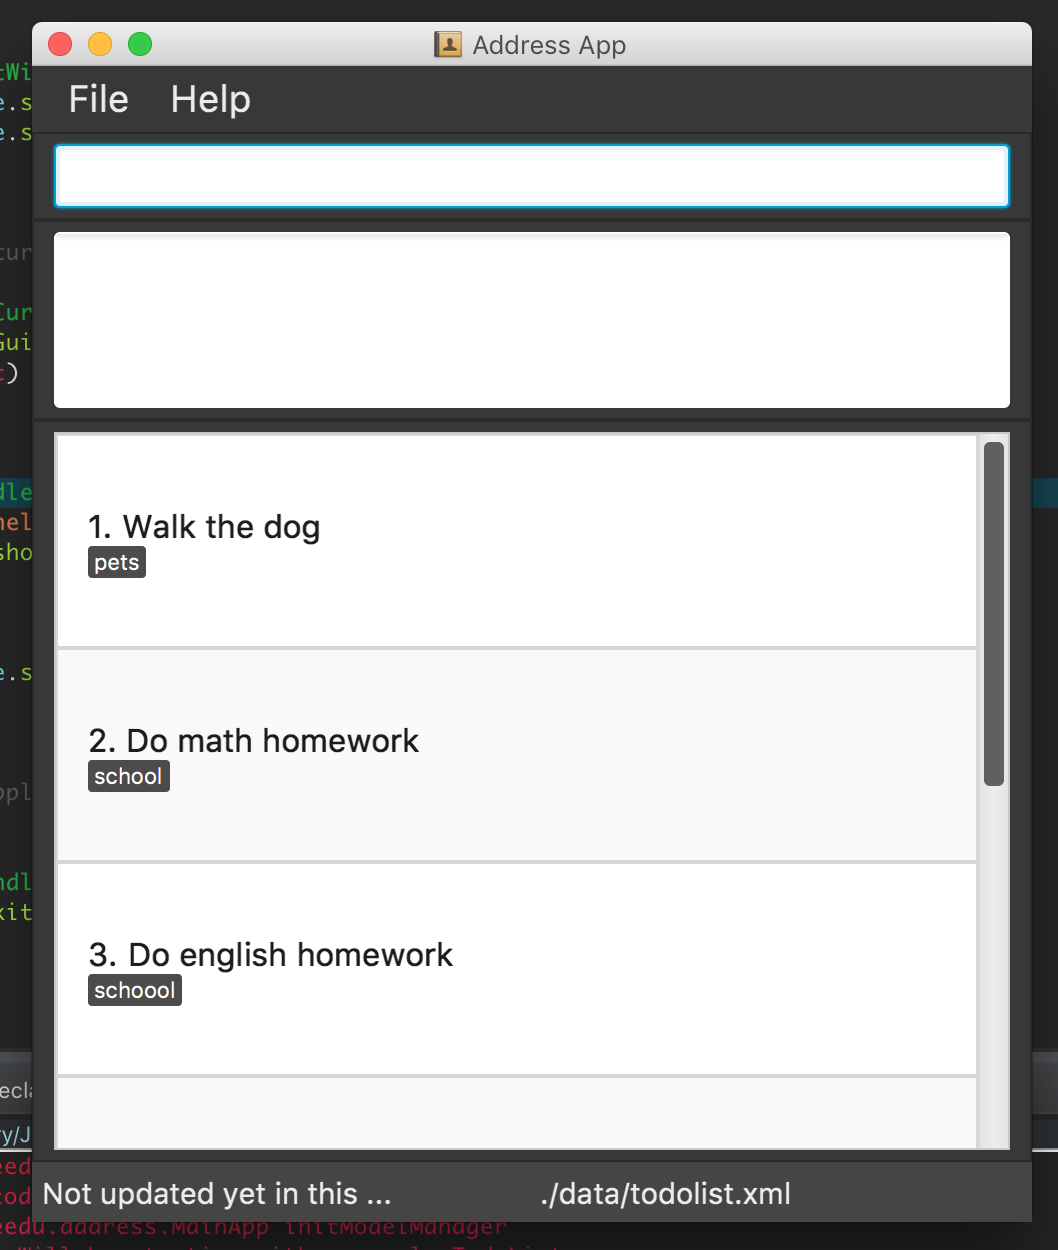
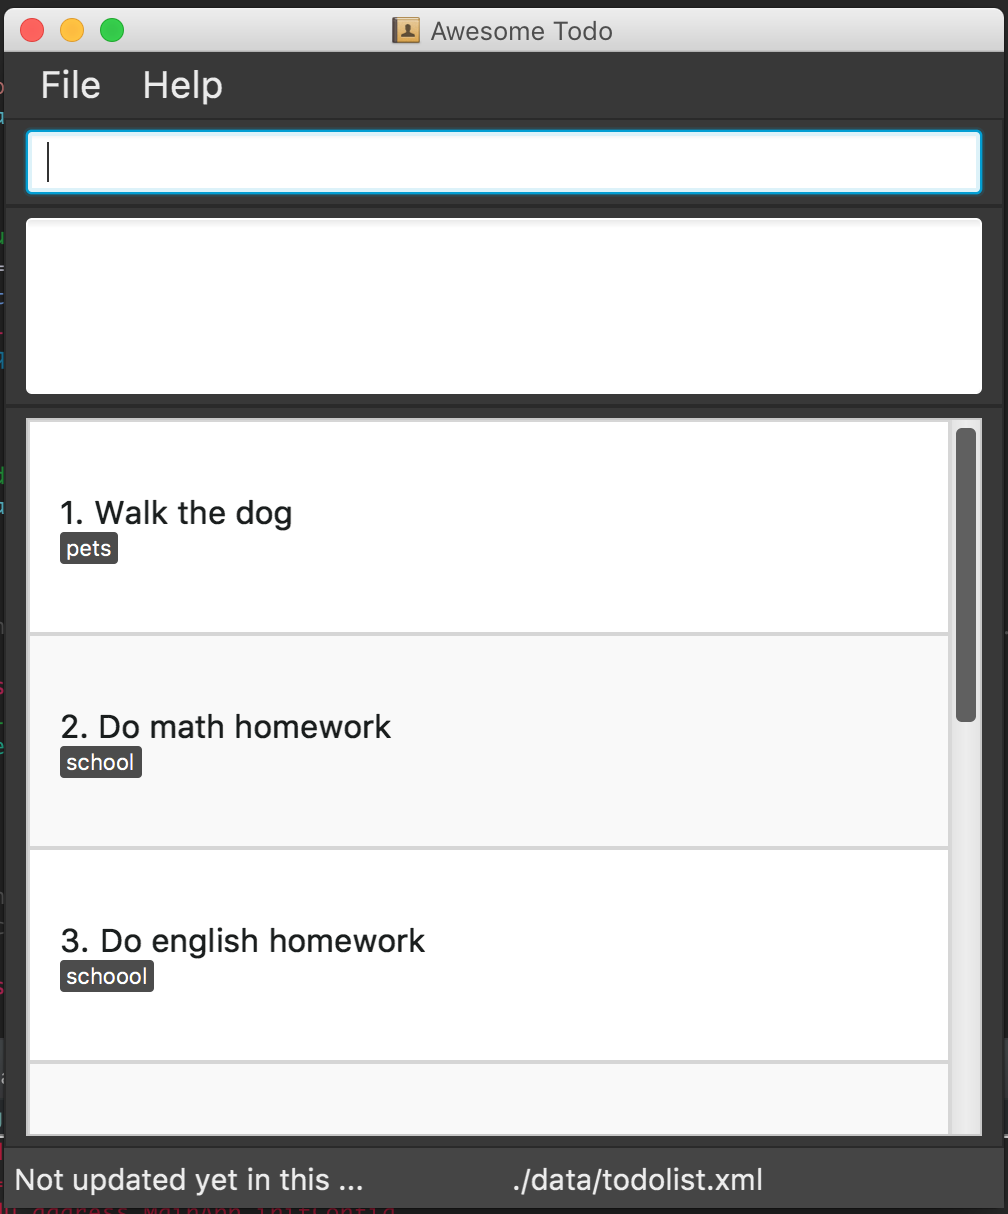
Add back in documentation changes since unit-tests branch was created

Changed region(s): [[0.0, 0.0, 1.0, 1.0]]

diff --git a/docs/UserGuide.md b/docs/UserGuide.md
@@ -47,13 +47,13 @@ Format: `help`
 ### 2.2. Adding a todo: `add`
 
 Adds a floating task<br>
-Format: `add TODO [t/TAG]`
+Format: `add TASK [t/TAG]`
 
 Adds an event<br>
-Format: `add TODO s/STARTTIME e/ENDTIME [t/tag]`
+Format: `add EVENT s/STARTTIME e/ENDTIME [t/tag]`
 
 Adds a deadline<br>
-Format: `add TODO d/DEADLINE [t/tag]`
+Format: `add DEADLINE d/DEADLINE [t/tag]`
 
 Examples:
 
@@ -165,10 +165,10 @@ Format: `exit`
 Todo data are saved in the hard disk automatically after any command that changes the data.<br>
 There is no need to save manually.
 
-### 2.12 Setting the data save location : `save`
+### 2.12 Setting the data save location : `savefile`
 
-Sets the save location file containing todo data.<br>
-Format: `save PATH_TO_FILE`
+Sets the save file location containing todo data.<br>
+Format: `savefile PATH_TO_FILE`
 
 > Changes the file save location to specified `PATH_TO_FILE`. <br>
 
@@ -186,30 +186,42 @@ Examples:
 
 ## 4. Command Summary
 
-* **Add Task**  `add task TODO` <br>
-  e.g. `add taskFinish math homework`
+* **Add Task** : `add TASK` <br>
+  e.g. `add Finish math homework`
 
-* **Add Event**  `add event TODO s/STARTTIME e/ENDTIME`
-  e.g. `add event Take the dog for a walk s/11-11-2017/17:00 e/11-11-17/17:30`
+* **Add Event** : `add TODO s/STARTTIME e/ENDTIME` <br>
+  e.g. `add Take the dog for a walk s/11-11-2017/17:00 e/11-11-17/17:30`
 
-* **Add Deadline**  `add deadline TODO d/DEADLINE`
-  e.g. `add deadline Finish programming project d/11-11-2017/17:00`
+* **Add Deadline** : `add TODO d/DEADLINE` <br>
+  e.g. `add Finish programming project d/11-11-2017/17:00`
 
-* **Clear** : `clear`
+* **Edit** : `edit INDEX [TASK]` <br>
+  e.g. `edit 1 Take cat for a walk`
+
+* **Clear** : `clear` <br>
+  e.g. `clear`
 
 * **Delete** : `delete INDEX` <br>
-   e.g. `delete 3`
+  e.g. `delete 3`
 
 * **Find** : `find KEYWORD [MORE_KEYWORDS]` <br>
   e.g. `find Dog`
 
+* **Complete** : `complete INDEX` <br>
+  e.g. `complete INDEX`
+
+* **Undo** : `undo` <br>
+  e.g. `undo`
+
 * **List** : `list` <br>
-  e.g.
+  e.g. `list`
+
+* **Set Save File Location** : `savefile FILE_PATH` <br>
+  e.g. `savefile ~/User/Documents/todolist.xml`
 
 * **Help** : `help` <br>
-  e.g.
+  e.g. `help`
 
-* **Select** : `select INDEX` <br>
-  e.g.`select 2`
-
+* **Exit** : `exit` <br>
+  e.g. `exit`
 

diff --git a/README.md b/README.md
@@ -1,13 +1,13 @@
-# Address Book (Level 4)
+# Awesome Todo (Level 4)
 
-[![Build Status](https://travis-ci.org/se-edu/addressbook-level4.svg?branch=master)](https://travis-ci.org/se-edu/addressbook-level4)
-[![Build status](https://ci.appveyor.com/api/projects/status/3boko2x2vr5cc3w2?svg=true)](https://ci.appveyor.com/project/damithc/addressbook-level4)
-[![Coverage Status](https://coveralls.io/repos/github/se-edu/addressbook-level4/badge.svg?branch=master)](https://coveralls.io/github/se-edu/addressbook-level4?branch=master)
-[![Codacy Badge](https://api.codacy.com/project/badge/Grade/fc0b7775cf7f4fdeaf08776f3d8e364a)](https://www.codacy.com/app/damith/addressbook-level4?utm_source=github.com&amp;utm_medium=referral&amp;utm_content=se-edu/addressbook-level4&amp;utm_campaign=Badge_Grade)
+[![Build Status](https://travis-ci.org/CS2103JAN2017-T11-B2/main.svg?branch=master)](https://travis-ci.org/CS2103JAN2017-T11-B2/main)
+[![Build status](https://ci.appveyor.com/api/projects/status/36su1ufd5q8ka33g/branch/master?svg=true)](https://ci.appveyor.com/project/jjamay/main/branch/master)
+[![Coverage Status](https://coveralls.io/repos/github/CS2103JAN2017-T11-B2/main/badge.svg?branch=master)](https://coveralls.io/github/CS2103JAN2017-T11-B2/main?branch=master)
+[![Codacy Badge](https://api.codacy.com/project/badge/Grade/adcd8078f9fc44aba27bdc76ba4f781b)](https://www.codacy.com/app/jjamay/main?utm_source=github.com&amp;utm_medium=referral&amp;utm_content=CS2103JAN2017-T11-B2/main&amp;utm_campaign=Badge_Grade)
 
 <img src="docs/images/Ui.png" width="600"><br>
 
-* This is a desktop ToDo application. It has a GUI but most of the user interactions happen using
+* This is a desktop Todo application. It has a GUI but most of the user interactions happen using
   a CLI (Command Line Interface).
 * It is a Java sample application intended for students learning Software Engineering while using Java as
   the main programming language.

diff --git a/docs/AboutUs.md b/docs/AboutUs.md
@@ -4,23 +4,23 @@ We are a team based in the [School of Computing, National University of Singapor
 
 ## Project Team
 
+#### [Justin Wong]
+<img src="images/justinwong.jpg" width="150"><br>
+Role: Team Leader <br>
+Responsibilities: 
+Development, Testing, Documentation
+
 #### [Jordan May] <br>
 <img src="images/jordanmay.jpg" width="150"><br>
 **Role**: Developer
 Responsibilities: 
------
-
-#### [Justin Wong]
-<img src="images/justinwong.jpg" width="150"><br>
-Role: Developer <br>
-Responsibilities: 
------
+Development, Testing, Documentation
 
 #### [Andy Peng]
 <img src="images/andypeng.jpg" width="150"><br>
 Role: Developer <br>
 Responsibilities: 
- -----
+Development, Testing, Documentation
 
 # Contributors
 
